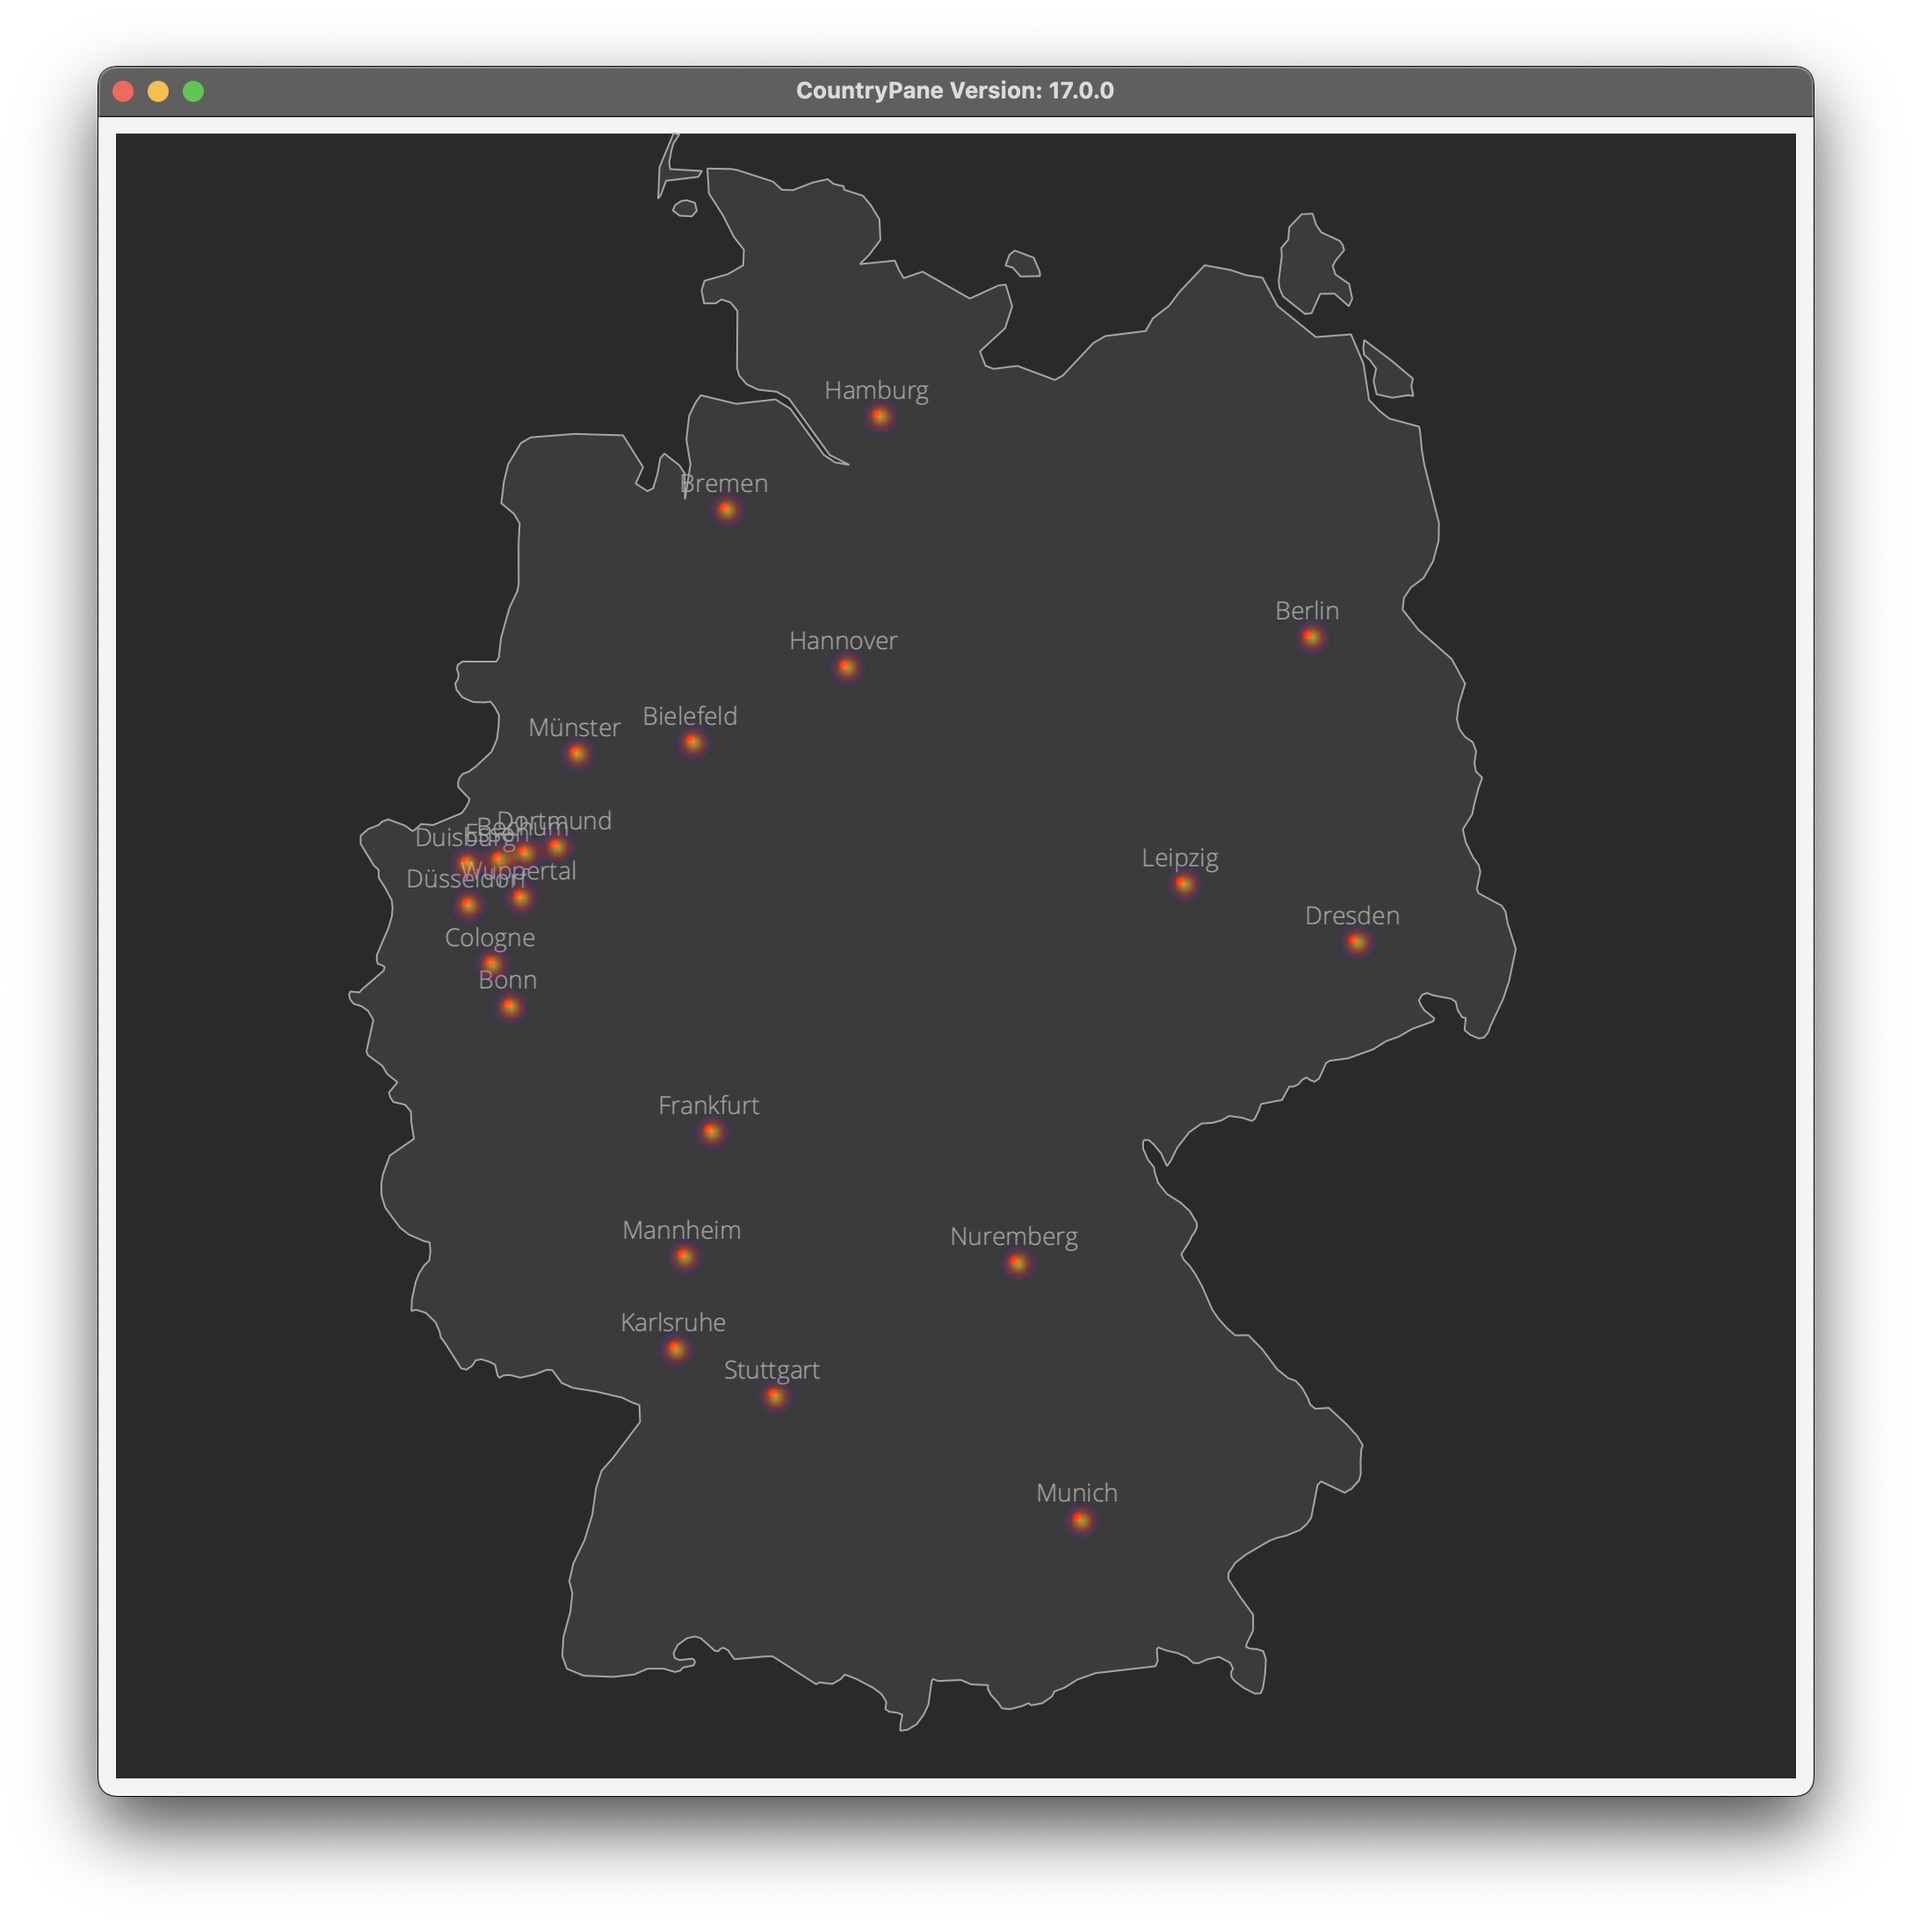
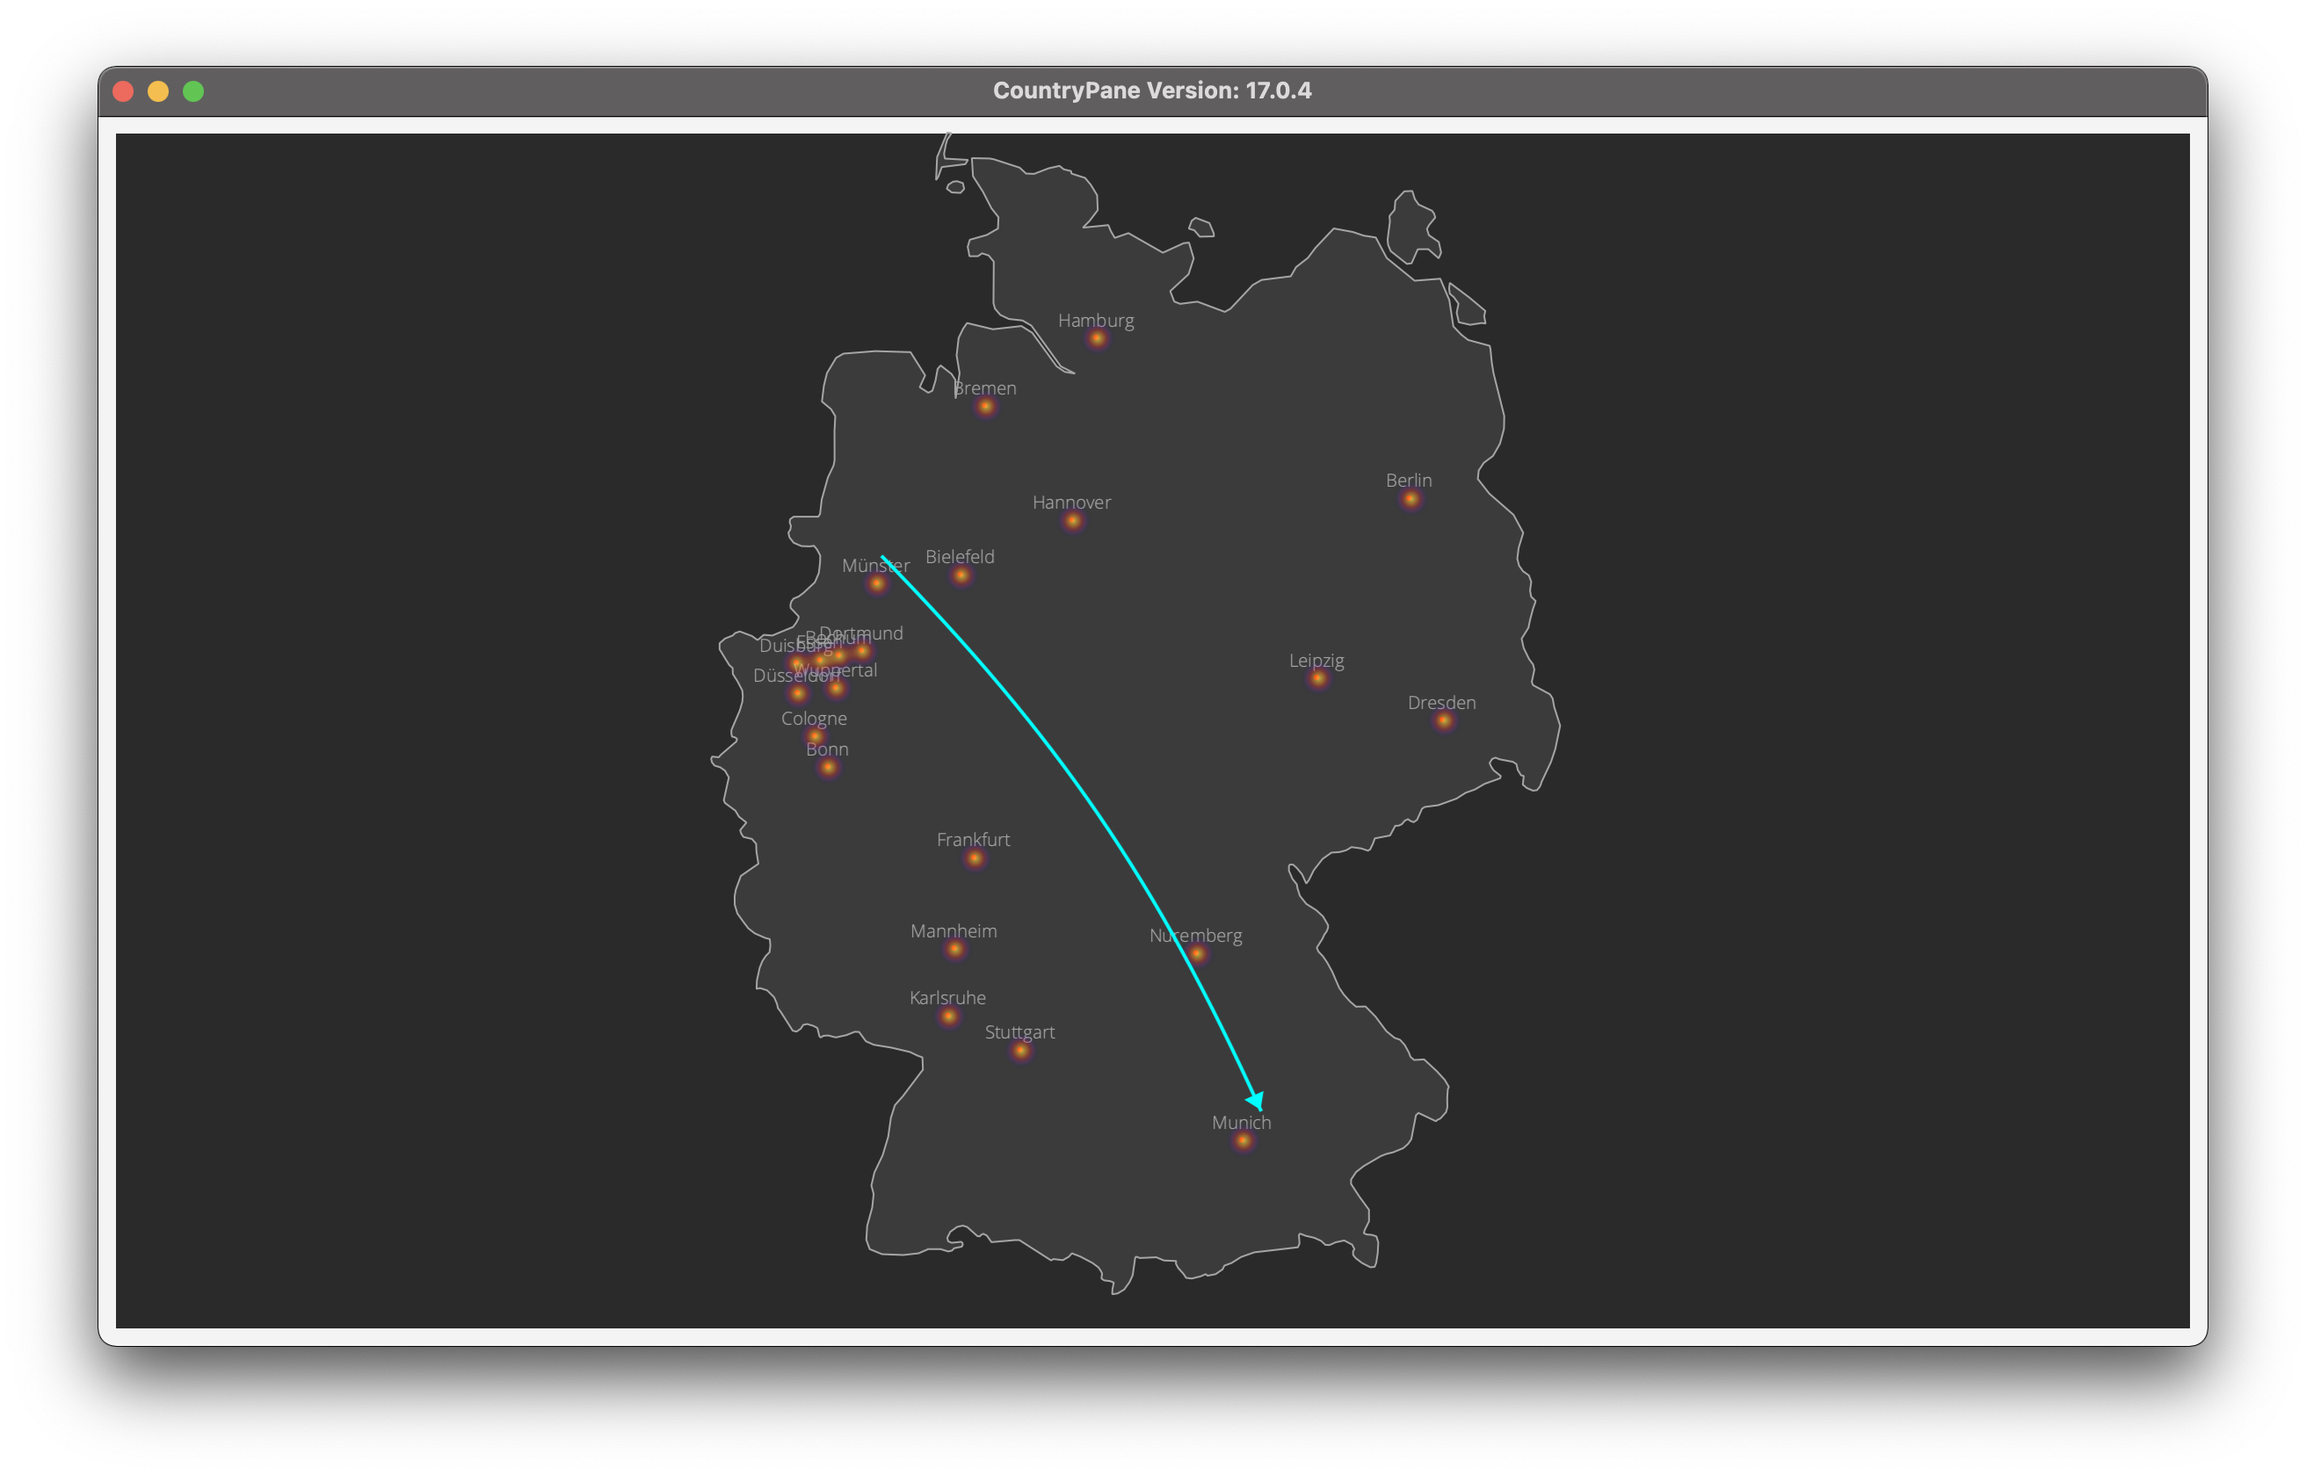
Updated screenshots

diff --git a/src/main/java/eu/hansolo/fx/countries/CountryPane.java b/src/main/java/eu/hansolo/fx/countries/CountryPane.java
@@ -262,6 +262,7 @@ public class CountryPane extends Region implements EvtObserver<Connection> {
         showing.addListener(o -> {
             if (showing.get()) {
                 resize();
+                heatmap.clearHeatMap();
                 List<Point> scaledSpots = new ArrayList<>();
                 heatmapSpots.forEach(spot -> {
                     final Point  p = Helper.latLonToXY(spot);

diff --git a/src/main/java/eu/hansolo/fx/countries/RegionPane.java b/src/main/java/eu/hansolo/fx/countries/RegionPane.java
@@ -326,6 +326,7 @@ public class RegionPane extends Region implements EvtObserver<Connection> {
         showing.addListener(o -> {
             if (showing.get()) {
                 resize();
+                heatmap.clearHeatMap();
                 List<Point> scaledSpots = new ArrayList<>();
                 heatmapSpots.forEach(spot -> {
                     final Point  p = Helper.latLonToXY(spot);

diff --git a/src/main/java/eu/hansolo/fx/countries/WorldPane.java b/src/main/java/eu/hansolo/fx/countries/WorldPane.java
@@ -277,6 +277,7 @@ public class WorldPane extends Region implements EvtObserver<Connection> {
         showing.addListener(o -> {
             if (showing.get()) {
                 resize();
+                heatmap.clearHeatMap();
                 List<Point> scaledSpots = new ArrayList<>();
                 heatmapSpots.forEach(spot -> {
                     final Point  p = Helper.latLonToXY(spot);
